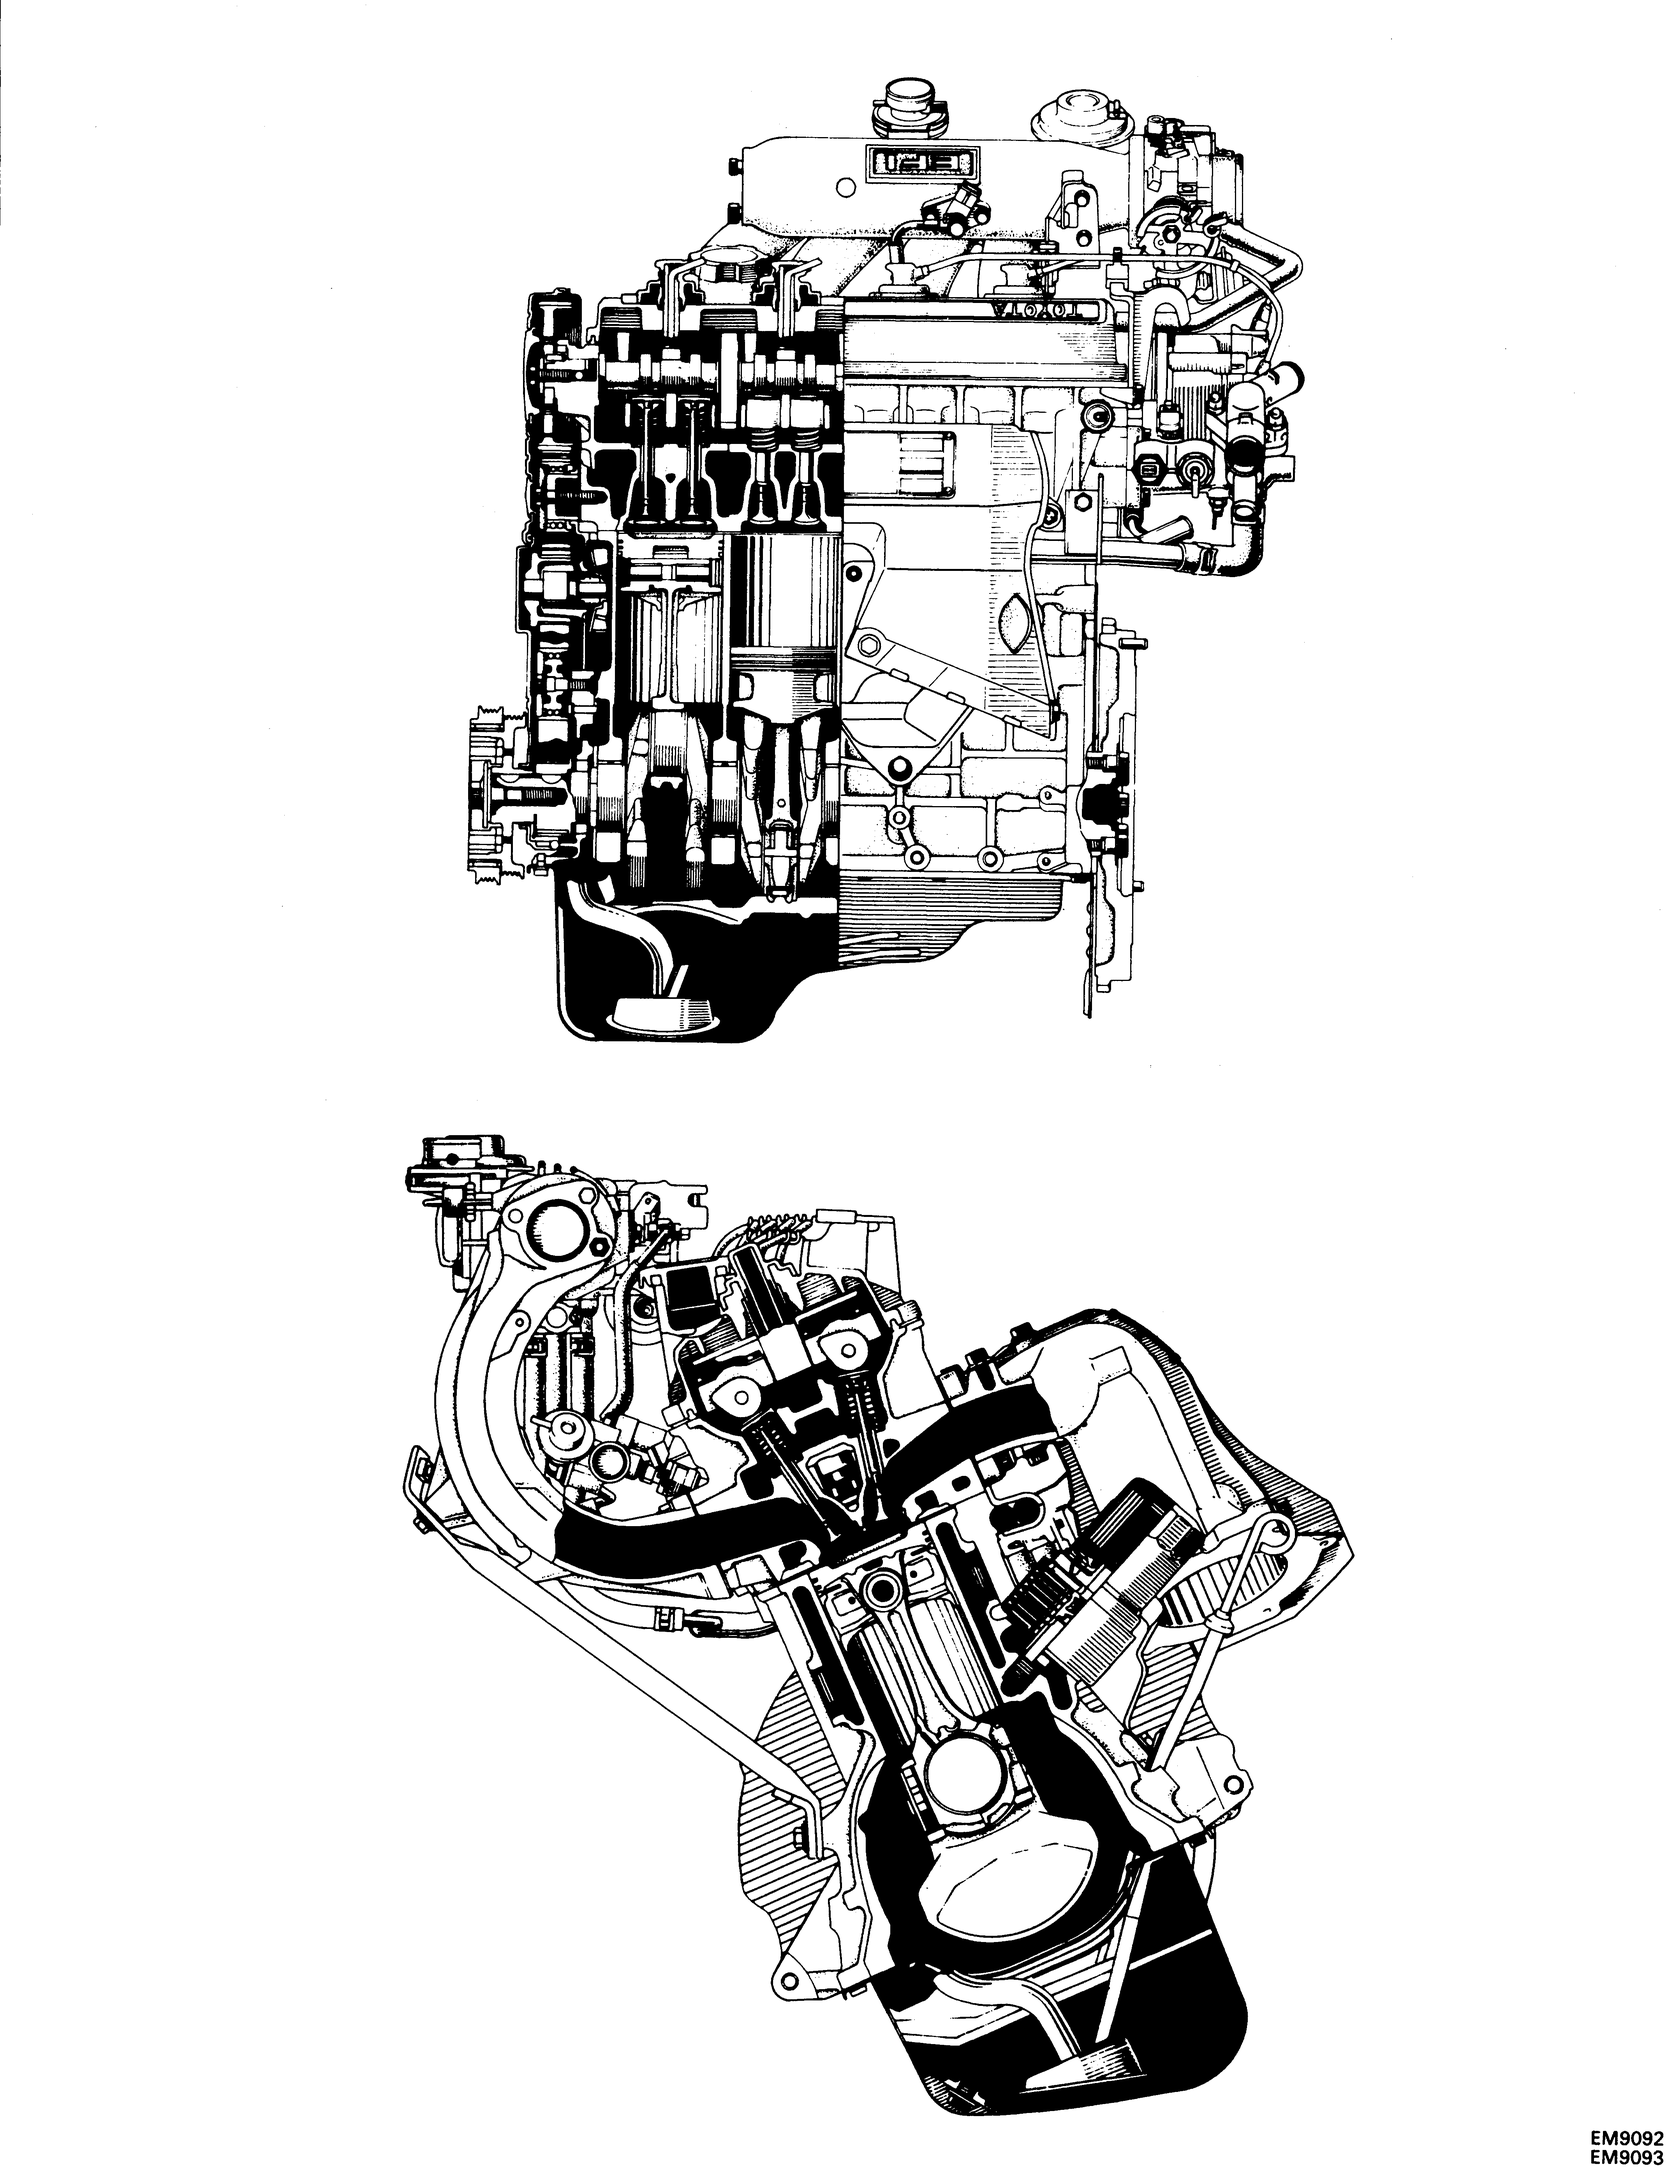
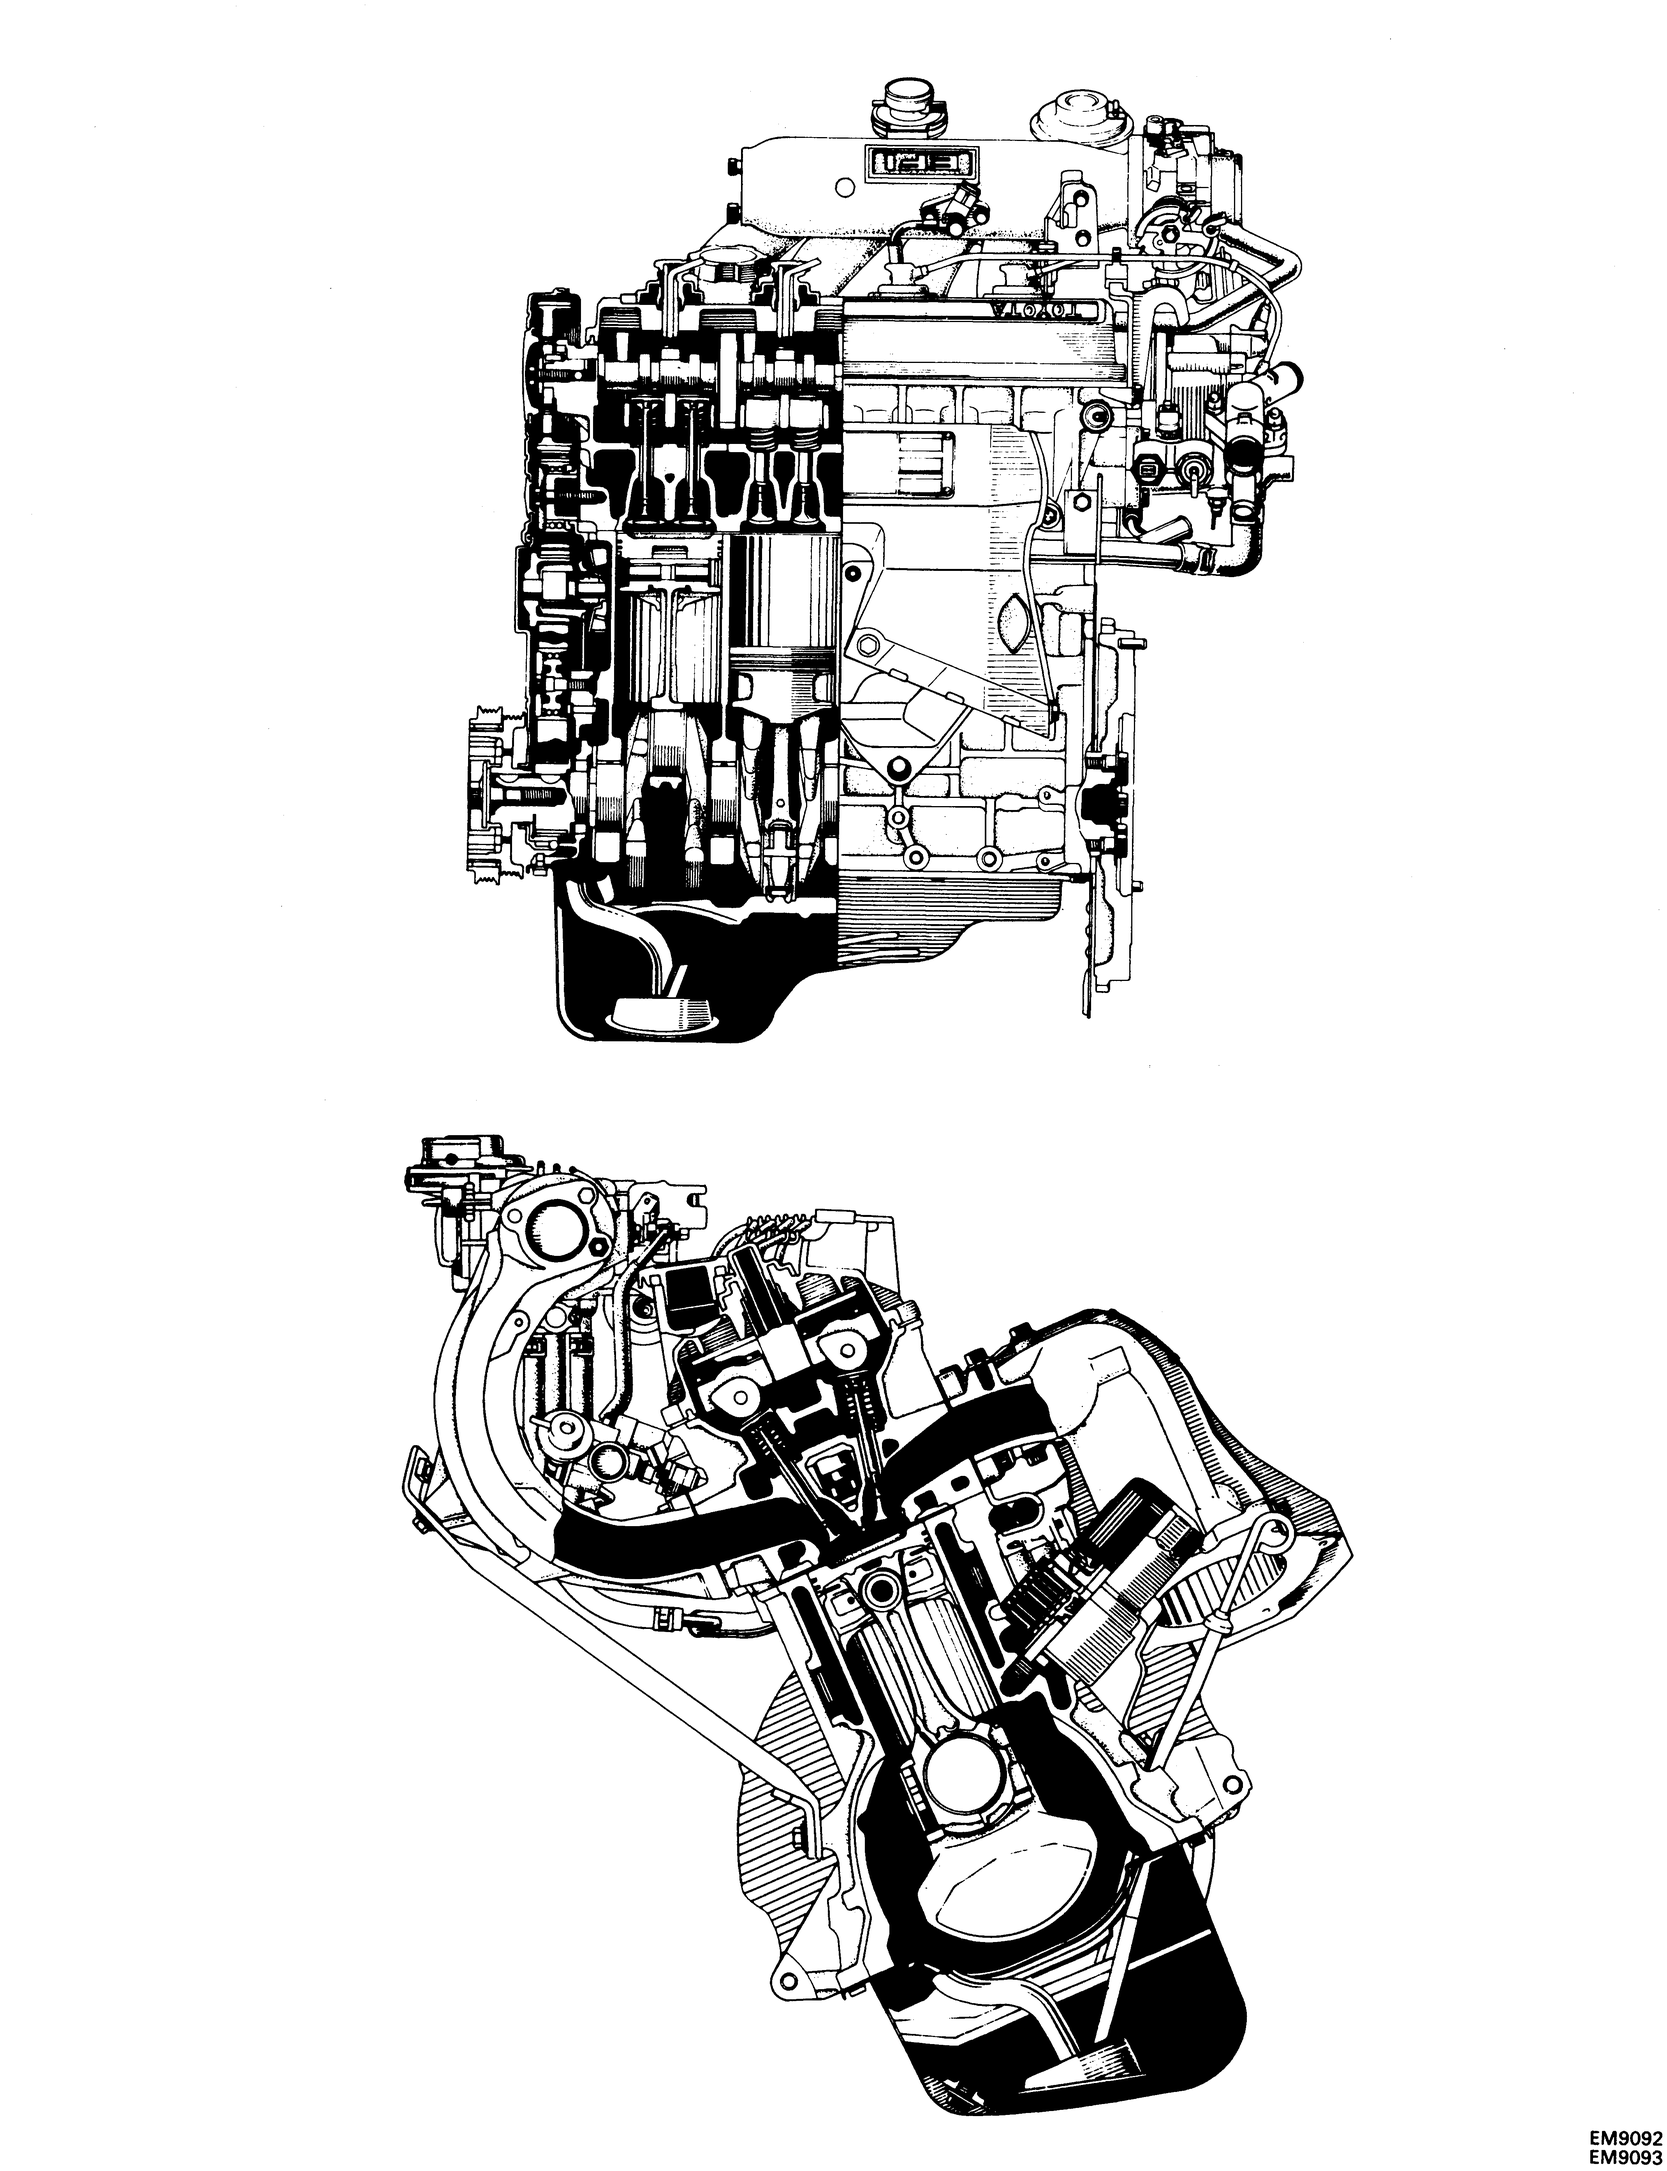
Removed leftover frame lines from the edge of extracted illustrations
The illustration frames are not perfectly rectangular, so the levelling
warp can leave a fragment of one side behind. It is too sparse for
trim_border's threshold — the left edge of EM9092_EM9093 was ink in only
10% of its rows — but it reads as a hairline along the edge, and as a
white line once dark mode inverts it.

trim_border now finishes with a sliver pass: a few pixels of ink hard
against an edge, backed by a clear white gutter, is a border remnant and
not artwork. prepare_pages warns if any survives.

Six of the 141 extracted illustrations were affected and are repaired in
place. Re-extracting them from the PDF now reproduces the repaired files
exactly, and every illustration ID still reads.

diff --git a/utils/helper_functions.py b/utils/helper_functions.py
@@ -338,6 +338,42 @@ def trim_border(image, max_scan=40, ink_ratio=0.5, pad=4):
     bottom = edge(rows[::-1], min(max_scan, height // 4))
     left = edge(cols, min(max_scan, width // 4))
     right = edge(cols[::-1], min(max_scan, width // 4))
+    return strip_edge_slivers(image[top:height - bottom, left:width - right])
+
+
+def strip_edge_slivers(image, max_scan=8, min_blank=12, max_ink_ratio=0.5):
+    """
+    Remove what is left of a frame line after trimming: a few pixels of ink hard against
+    an edge, with a clear white gutter just inside it. The frames are not perfectly
+    rectangular, so the perspective warp can leave a fragment of one side behind — too
+    little ink for trim_border's threshold, but visible as a hairline along the edge
+    (and, inverted, as a white line in dark mode).
+    :param image: grayscale illustration
+    :param max_scan: at most this many pixels are stripped from a side
+    :param min_blank: the gutter inside the sliver must be at least this wide
+    :param max_ink_ratio: leave anything denser than this alone; a real border is trim_border's job
+    :return: cropped image
+    """
+    ink = image < INK_THRESHOLD
+    height, width = ink.shape
+
+    def sliver(profile, limit):
+        offset = 0
+        while offset < min(max_scan, limit) and profile[offset] > 0:
+            offset += 1
+        if offset == 0 or offset >= min(max_scan, limit):
+            return 0
+        if profile[:offset].max() > max_ink_ratio:
+            return 0
+        gutter = profile[offset:offset + min_blank]
+        return offset if len(gutter) == min_blank and gutter.max() == 0 else 0
+
+    rows = ink.mean(axis=1)
+    cols = ink.mean(axis=0)
+    top = sliver(rows, height // 4)
+    bottom = sliver(rows[::-1], height // 4)
+    left = sliver(cols, width // 4)
+    right = sliver(cols[::-1], width // 4)
     return image[top:height - bottom, left:width - right]
 
 

diff --git a/utils/prepare_pages.py b/utils/prepare_pages.py
@@ -65,6 +65,25 @@ def find_steps(tsv, shape):
     return steps
 
 
+def edge_ink(image, gutter=12):
+    """
+    Sides of an extracted illustration that still carry ink hard against the edge with a
+    blank gutter behind it — what a frame line looks like when trimming missed it.
+    :return: names of the offending sides
+    """
+    ink = image < hf.INK_THRESHOLD
+    sides = {"left": ink.mean(axis=0), "right": ink.mean(axis=0)[::-1],
+             "top": ink.mean(axis=1), "bottom": ink.mean(axis=1)[::-1]}
+    found = []
+    for name, profile in sides.items():
+        n = 0
+        while n < len(profile) and n < 25 and profile[n] > 0:
+            n += 1
+        if 0 < n <= 8 and profile[n:n + gutter].max() == 0:
+            found.append(name)
+    return found
+
+
 def nearest_step(frame_box, steps):
     """
     The step label printed beside a frame: figures are aligned with the top of the step
@@ -136,6 +155,10 @@ def process_page(doc, entries, page_number, args, previous_code):
     unnamed = 0
     for frame in frames:
         cut = hf.trim_border(hf.extract_frame(bitmap, frame))
+        edges = edge_ink(cut)
+        if edges:
+            warnings.append(f"frame at {frame.bbox_pct} still has ink on its {', '.join(edges)} edge "
+                            f"(leftover border line?)")
         ids = hf.read_frame_ids(cut)
         if ids:
             name = "_".join(ids)
